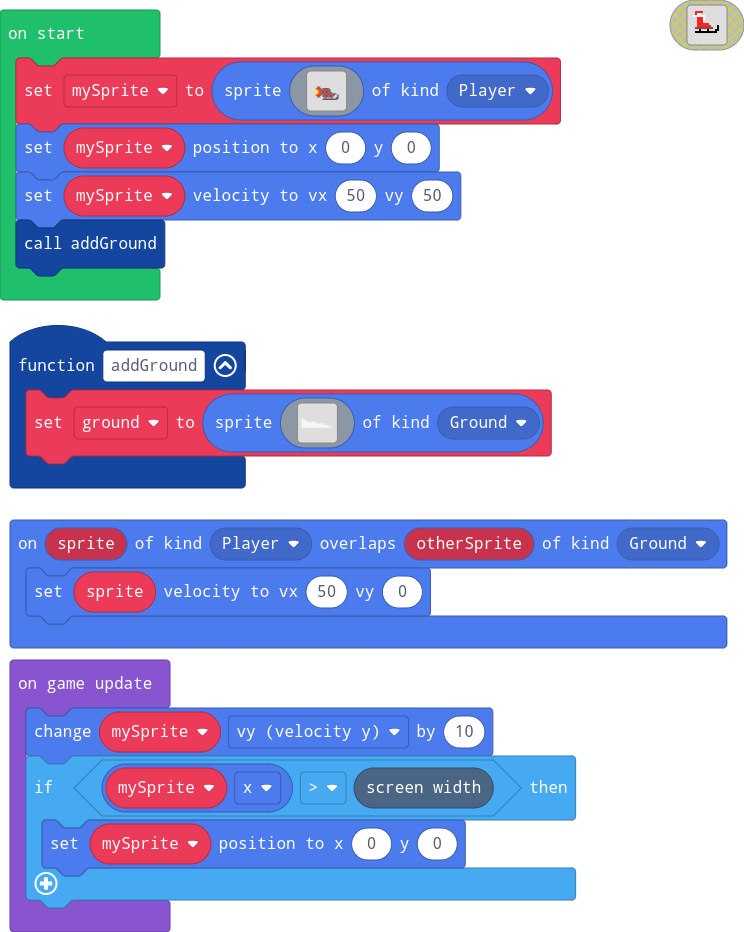
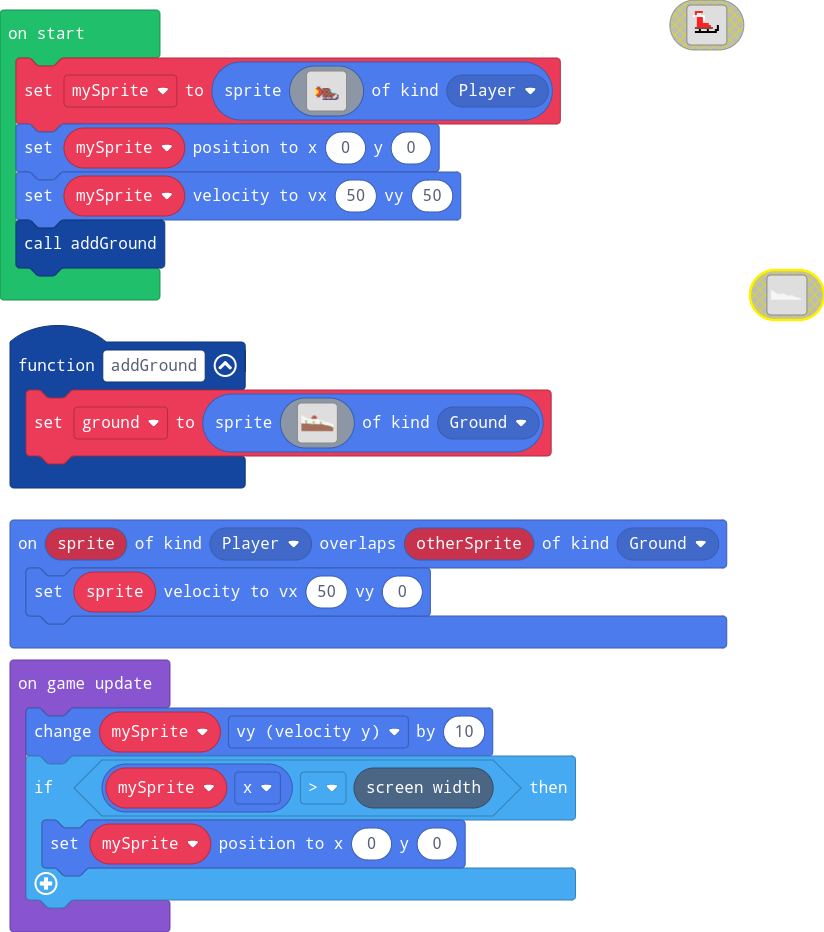
landschaft

diff --git a/main.ts b/main.ts
@@ -6,54 +6,86 @@ sprites.onOverlap(SpriteKind.Player, SpriteKind.Ground, function (sprite, otherS
 })
 function addGround () {
     ground = sprites.create(img`
-        ................................................................................................................................................................
+        11..............................................................................................................................................................
         111.............................................................................................................................................................
         111111..........................................................................................................................................................
-        1111111.........................................................................................................................................................
-        11111111........................................................................................................................................................
-        1111111111......................................................................................................................................................
-        111111111111....................................................................................................................................................
-        1111111111111...................................................................................................................................................
-        11111111111111..................................................................................................................................................
-        1111111111111111................................................................................................................................................
-        11111111111111111...............................................................................................................................................
-        1111111111111111111.............................................................................................................................................
-        111111111111111111111...........................................................................................................................................
-        1111111111111111111111..........................................................................................................................................
-        111111111111111111111111........................................................................................................................................
-        11111111111111111111111111......................................................................................................................................
-        111111111111111111111111111.....................................................................................................................................
-        111111111111111111111111111111..................................................................................................................................
-        111111111111111111111111111111111...............................................................................................................................
-        11111111111111111111111111111111111...................11111111111...............................................................................................
-        11111111111111111111111111111111111111............111111111111111111............................................................................................
-        1111111111111111111111111111111111111111111111111111111111111111111111..........................................................................................
-        11111111111111111111111111111111111111111111111111111111111111111111111.........................................................................................
-        1111111111111111111111111111111111111111111111111111111111111111111111111.......................................................................................
-        111111111111111111111111111111111111111111111111111111111111111111111111111.....................................................................................
-        1111111111111111111111111111111111111111111111111111111111111111111111111111....................................................................................
-        11111111111111111111111111111111111111111111111111111111111111111111111111111...................................................................................
-        11111111111111111111111111111111111111111111111111111111111111111111111111111111..................1111111.......................................................
-        11111111111111111111111111111111111111111111111111111111111111111111111111111111111...........11111111111111....................................................
-        11111111111111111111111111111111111111111111111111111111111111111111111111111111111111111111111111111111111111..................................................
-        111111111111111111111111111111111111111111111111111111111111111111111111111111111111111111111111111111111111111.................................................
-        1111111111111111111111111111111111111111111111111111111111111111111111111111111111111111111111111111111111111111................................................
-        11111111111111111111111111111111111111111111111111111111111111111111111111111111111111111111111111111111111111111...............................................
-        1111111111111111111111111111111111111111111111111111111111111111111111111111111111111111111111111111111111111111111.............................................
-        111111111111111111111111111111111111111111111111111111111111111111111111111111111111111111111111111111111111111111111...........................................
-        111111111111111111111111111111111111111111111111111111111111111111111111111111111111111111111111111111111111111111111111........................................
-        111111111111111111111111111111111111111111111111111111111111111111111111111111111111111111111111111111111111111111111111111111111...............................
-        11111111111111111111111111111111111111111111111111111111111111111111111111111111111111111111111111111111111111111111111111111111111.............................
-        1111111111111111111111111111111111111111111111111111111111111111111111111111111111111111111111111111111111111111111111111111111111111...........................
-        111111111111111111111111111111111111111111111111111111111111111111111111111111111111111111111111111111111111111111111111111111111111111111......................
-        1111111111111111111111111111111111111111111111111111111111111111111111111111111111111111111111111111111111111111111111111111111111111111111111..................
-        11111111111111111111111111111111111111111111111111111111111111111111111111111111111111111111111111111111111111111111111111111111111111111111111.................
-        1111111111111111111111111111111111111111111111111111111111111111111111111111111111111111111111111111111111111111111111111111111111111111111111111...............
-        111111111111111111111111111111111111111111111111111111111111111111111111111111111111111111111111111111111111111111111111111111111111111111111111111.............
-        111111111111111111111111111111111111111111111111111111111111111111111111111111111111111111111111111111111111111111111111111111111111111111111111111111..........
-        1111111111111111111111111111111111111111111111111111111111111111111111111111111111111111111111111111111111111111111111111111111111111111111111111111111111......
-        111111111111111111111111111111111111111111111111111111111111111111111111111111111111111111111111111111111111111111111111111111111111111111111111111111111111....
-        1111111111111111111111111111111111111111111111111111111111111111111111111111111111111111111111111111111111111111111111111111111111111111111111111111111111111111
+        1111111.....................................................2222222222..........................................................................................
+        11111111...................................................222222222222.........................................................................................
+        1111111111................................................22222222222222........................................................................................
+        111111111111.............................................2222222222222222.......................................................................................
+        1111111111111...........................................222222222222222222......................................................................................
+        11111111111111.........................................22222222222222222222.....................................................................................
+        1111111111111111......................................2222222222222222222222....................................................................................
+        11111111111111111....................................222eeeeee22222222eeee222...................................................................................
+        1111111111111111111.................................eeeeeeeeeeeeeeeeeeeeeeeeee..................................................................................
+        111111111111111111111..............................eeeeeeeeeeeeeeeefffffeeeeee..................................................................................
+        1111111111111111111111.............................eeefffffffeeeeeefcccfeeeeee..................................................................................
+        111111111111111111111111...........................eeef99f99feeeeeefcccfeeeeee..................................................................................
+        11111111111111111111111111.........................eeef99f99feeeeeefcccfeeeeee..................................................................................
+        111111111111111111111111111........................eeefffffffeeeeeefccffeeeeee..................................................................................
+        111111111111111111111111111111.....................eeeeeeeeeeeeeeeefcccfeeeeee..................................................................................
+        111111111111111111111111111111111..................eeeeeeeeeeeeeeeefcccfeeeeee..................................................................................
+        11111111111111111111111111111111111................eeeeeeeeeeeeeeeefcccfeeeeee..................................................................................
+        1111111111111111111111111111111111111111111111111111111111111111111111111111111111..............................................................................
+        1111111111111111111111111111111111111111111111111111111111111111111111111111111111..............................................................................
+        11111111111111111111111111111111111111111111111111111111111111111111111111111111111.............................................................................
+        111111111111111111111111111111111111111111111111111111111111111111111111111111111111............................................................................
+        1111111111111111111111111111111111111111111111111111111111111111111111111111111111111111........................................................................
+        11111111111111111111111111111111111111111111111111111111111111111111111111111111111111111111....................................................................
+        111111111111111111111177777771111111111111111111111111111111111111111111111111111111111111111111................................................................
+        111111111111111111177777777777111111111111111111111111111111111111111111111111111111111111111111111111111.......................................................
+        111111111111111111177777777777777111111111111111111111111111111111111111111111111111111111111111111111111111....................................................
+        11111111111111111177777777777777711111111111111111111111111111111111111111111111111111111111111111111111111111..................................................
+        111111111111111111777777777777777111111111111111111111111111777777711111111111111111111111111111111111111111111.................................................
+        11111111111111111177777777eee77711111111111111111111111111777777777111111111111111111111111111111111777111111111................................................
+        11111111111111111111111eeeeee777111111111111111111111111777777777777711111111111111111111111117777777771111111111...............................................
+        11111111111111111111111eeeee111111111111111111111111111177777777777771111111111111111111111117777777777771111111111.............................................
+        11111111111111111111111eeeee11111111111111111111111111177777777777777711111111111111111111117777777777777111111111111...........................................
+        11111111111111111111111eeee111111111111111111111111111177777777777777711111111111111111111117777777777777711111111111111........................................
+        11111111111111111111111eeee111111111111111111111111111117777777777777711111111111111111111117777777777777711111111111111111111111...............................
+        11111111111111111111111eeee111111111111111111111111111111111eeeee777111111111111111111111111111117777777771111111111111111111111111.............................
+        11111111111111111111111eeee111111111111111111111111111111111eeeee11111111111111111111111111111111eee777111111111111111111111111111111...........................
+        11111111111111111111111eeee111111111111111111111111111111111eeee111111111111111111111111111111111eeeeee11111111111111111111111111111111111......................
+        11111111111111111111111eeeee11111111111111111111111111111111eeee111111111111111111111111111111111eeeee1111111111111111111111111111111111111111..................
+        11111111111111111111111eeeee11111111111111117777771111111111eeee11111111111111111111111111111111eeeee111111111111111111111111111111111111111111.................
+        eeeeeeeeee1111111111111eeeee11111111111111777777777111111111eeee11111111111111111111111111111111eeeee11111111111111111111111111111111111111111111...............
+        eeeeeeeeeeeeeeeeeeeeeeeeeeeeeeeeeeeeeeeee77777777777111111111eeee111111111111111111111111111111eeeeee1111111111111111111111111111111111111111111111.............
+        eeeeeeeeeeeeeeeeeeeeeeeeeeeeeeeeeeeeeeeeee7777777777711111111eeee111111111111111111111111111111eeeeee1111111111111111111111111111111111111111111111111..........
+        eeeeeeeeeeeeeeeeeeeeeeeeeeeeeeeeeeeeeeeeeee777777ee7711111111eeee1eeeeeeeeeeee11111111111111111eeeee111111111111111111111111111111111111111111111111111111......
+        eeeeeeeeeeeeeeeeeeeeeeeeeeeeeeeeeeeeeeeeeeeeeeeeeeee7eeeeeeeeeeeeeeeeeeeeeeeeeeeeeeeeeeeeeeeeeeeeeeeeeeeeeeeee1111111111111111111111111111111111111111111111....
[15 lines of base64/hex data omitted]
+        eeeeeeeeeeeeeeeeeeeeeeeeeeeeeeeeeeeeeeeeeeeeeeeeeeeeeeeeeeeeeeeeeeeeeeeeeeeeeeeeeeeeeeeeeeeeeeeeeeeeeeeeeeeeeeeeeeeeeeeeeeeeeeeeeeeeeeeeeeeeeeeeeeeeeeeeeeeeeeee
+        eeeeeeeeeeeeeeeeeeeeeeeeeeeeeeeeeeeeeeeeeeeeeeeeeeeeeeeeeeeeeeeeeeeeeeeeeeeeeeeeeeeeeeeeeeeeeeeeeeeeeeeeeeeeeeeeeeeeeeeeeeeeeeeeeeeeeeeeeeeeeeeeeeeeeeeeeeeeeeee
+        eeeeeeeeeeeeeeeeeeeeeeeeeeeeeeeeeeeeeeeeeeeeeeeeeeeeeeeeeeeeeeeeeeeeeeeeeeeeeeeeeeeeeeeeeeeeeeeeeeeeeeeeeeeeeeeeeeeeeeeeeeeeeeeeeeeeeeeeeeeeeeeeeeeeeeeeeeeeeeee
+        eeeeeeeeeeeeeeeeeeeeeeeeeeeeeeeeeeeeeeeeeeeeeeeeeeeeeeeeeeeeeeeeeeeeeeeeeeeeeeeeeeeeeeeeeeeeeeeeeeeeeeeeeeeeeeeeeeeeeeeeeeeeeeeeeeeeeeeeeeeeeeeeeeeeeeeeeeeeeeee
+        eeeeeeeeeeeeeeeeeeeeeeeeeeeeeeeeeeeeeeeeeeeeeeeeeeeeeeeeeeeeeeeeeeeeeeeeeeeeeeeeeeeeeeeeeeeeeeeeeeeeeeeeeeeeeeeeeeeeeeeeeeeeeeeeeeeeeeeeeeeeeeeeeeeeeeeeeeeeeeee
+        eeeeeeeeeeeeeeeeeeeeeeeeeeeeeeeeeeeeeeeeeeeeeeeeeeeeeeeeeeeeeeeeeeeeeeeeeeeeeeeeeeeeeeeeeeeeeeeeeeeeeeeeeeeeeeeeeeeeeeeeeeeeeeeeeeeeeeeeeeeeeeeeeeeeeeeeeeeeeeee
+        eeeeeeeeeeeeeeeeeeeeeeeeeeeeeeeeeeeeeeeeeeeeeeeeeeeeeeeeeeeeeeeeeeeeeeeeeeeeeeeeeeeeeeeeeeeeeeeeeeeeeeeeeeeeeeeeeeeeeeeeeeeeeeeeeeeeeeeeeeeeeeeeeeeeeeeeeeeeeeee
+        eeeeeeeeeeeeeeeeeeeeeeeeeeeeeeeeeeeeeeeeeeeeeeeeeeeeeeeeeeeeeeeeeeeeeeeeeeeeeeeeeeeeeeeeeeeeeeeeeeeeeeeeeeeeeeeeeeeeeeeeeeeeeeeeeeeeeeeeeeeeeeeeeeeeeeeeeeeeeeee
+        eeeeeeeeeeeeeeeeeeeeeeeeeeeeeeeeeeeeeeeeeeeeeeeeeeeeeeeeeeeeeeeeeeeeeeeeeeeeeeeeeeeeeeeeeeeeeeeeeeeeeeeeeeeeeeeeeeeeeeeeeeeeeeeeeeeeeeeeeeeeeeeeeeeeeeeeeeeeeeee
+        eeeeeeeeeeeeeeeeeeeeeeeeeeeeeeeeeeeeeeeeeeeeeeeeeeeeeeeeeeeeeeeeeeeeeeeeeeeeeeeeeeeeeeeeeeeeeeeeeeeeeeeeeeeeeeeeeeeeeeeeeeeeeeeeeeeeeeeeeeeeeeeeeeeeeeeeeeeeeeee
+        eeeeeeeeeeeeeeeeeeeeeeeeeeeeeeeeeeeeeeeeeeeeeeeeeeeeeeeeeeeeeeeeeeeeeeeeeeeeeeeeeeeeeeeeeeeeeeeeeeeeeeeeeeeeeeeeeeeeeeeeeeeeeeeeeeeeeeeeeeeeeeeeeeeeeeeeeeeeeeee
+        eeeeeeeeeeeeeeeeeeeeeeeeeeeeeeeeeeeeeeeeeeeeeeeeeeeeeeeeeeeeeeeeeeeeeeeeeeeeeeeeeeeeeeeeeeeeeeeeeeeeeeeeeeeeeeeeeeeeeeeeeeeeeeeeeeeeeeeeeeeeeeeeeeeeeeeeeeeeeeee
+        eeeeeeeeeeeeeeeeeeeeeeeeeeeeeeeeeeeeeeeeeeeeeeeeeeeeeeeeeeeeeeeeeeeeeeeeeeeeeeeeeeeeeeeeeeeeeeeeeeeeeeeeeeeeeeeeeeeeeeeeeeeeeeeeeeeeeeeeeeeeeeeeeeeeeeeeeeeeeeee
+        eeeeeeeeeeeeeeeeeeeeeeeeeeeeeeeeeeeeeeeeeeeeeeeeeeeeeeeeeeeeeeeeeeeeeeeeeeeeeeeeeeeeeeeeeeeeeeeeeeeeeeeeeeeeeeeeeeeeeeeeeeeeeeeeeeeeeeeeeeeeeeeeeeeeeeeeeeeeeeee
+        eeeeeeeeeeeeeeeeeeeeeeeeeeeeeeeeeeeeeeeeeeeeeeeeeeeeeeeeeeeeeeeeeeeeeeeeeeeeeeeeeeeeeeeeeeeeeeeeeeeeeeeeeeeeeeeeeeeeeeeeeeeeeeeeeeeeeeeeeeeeeeeeeeeeeeeeeeeeeeee
+        eeeeeeeeeeeeeeeeeeeeeeeeeeeeeeeeeeeeeeeeeeeeeeeeeeeeeeeeeeeeeeeeeeeeeeeeeeeeeeeeeeeeeeeeeeeeeeeeeeeeeeeeeeeeeeeeeeeeeeeeeeeeeeeeeeeeeeeeeeeeeeeeeeeeeeeeeeeeeeee
+        eeeeeeeeeeeeeeeeeeeeeeeeeeeeeeeeeeeeeeeeeeeeeeeeeeeeeeeeeeeeeeeeeeeeeeeeeeeeeeeeeeeeeeeeeeeeeeeeeeeeeeeeeeeeeeeeeeeeeeeeeeeeeeeeeeeeeeeeeeeeeeeeeeeeeeeeeeeeeeee
+        eeeeeeeeeeeeeeeeeeeeeeeeeeeeeeeeeeeeeeeeeeeeeeeeeeeeeeeeeeeeeeeeeeeeeeeeeeeeeeeeeeeeeeeeeeeeeeeeeeeeeeeeeeeeeeeeeeeeeeeeeeeeeeeeeeeeeeeeeeeeeeeeeeeeeeeeeeeeeeee
         `, SpriteKind.Ground)
 }
 let ground: Sprite = null
